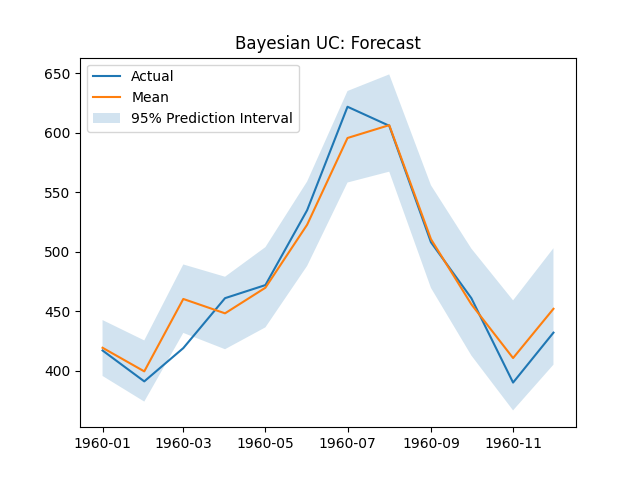
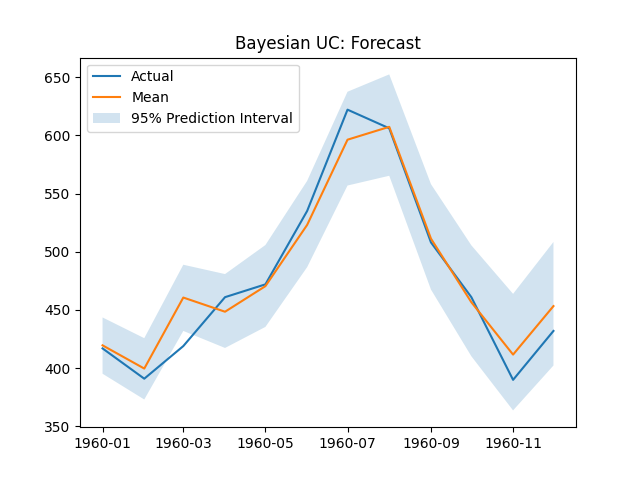
Update to method for drawing the observation equation's posterior variance - When a regression component is specified, the posterior regression coefficients are conditioned on the posterior variance of the observation equation's error term. This was incorrectly applied. The regression coefficients a

diff --git a/pybuc/buc.py b/pybuc/buc.py
@@ -3031,6 +3031,7 @@ class BayesianUnobservedComponents:
             reg_coeff_mean_prior = model.reg_coeff_mean_prior
             reg_coeff_prec_prior = model.reg_coeff_prec_prior
             reg_ninvg_coeff_cov_post = model.reg_ninvg_coeff_cov_post
+            reg_ninvg_coeff_prec_post = model.reg_ninvg_coeff_prec_post
             gibbs_iter0_reg_coeff = model.gibbs_iter0_reg_coeff
 
             if gibbs_iter0_reg_coeff is None:
@@ -3166,20 +3167,13 @@ class BayesianUnobservedComponents:
             if self.response_has_nan:
                 y = self.response_replace_nan + self.response_nan_indicator * _smoothed_prediction
 
-            # Get new draw for observation variance
-            smooth_one_step_ahead_prediction_resid = _smoothed_errors[:, 0]
-            response_var_scale_post = (response_var_scale_prior
-                                       + 0.5 * dot(smooth_one_step_ahead_prediction_resid.T,
-                                                   smooth_one_step_ahead_prediction_resid))
-            _response_error_variance = dist.vec_ig(response_var_shape_post, response_var_scale_post)
-
             if q > 0:
                 state_resid = _smoothed_errors[:, 1:, 0]
                 state_sse = dot(state_resid.T ** 2, n_ones)
                 state_var_scale_post = state_var_scale_prior + 0.5 * dot(H, state_sse)
                 state_err_var_post = dist.vec_ig(state_var_shape_post, state_var_scale_post)
 
-                if np.all(np.concatenate((_response_error_variance, state_err_var_post)) < upper_var_limit):
+                if np.all(state_err_var_post < upper_var_limit):
                     filtered_state[s] = _filtered_state
                     state_covariance[s] = _state_covariance
                     filtered_prediction[s] = _filtered_prediction
@@ -3187,7 +3181,6 @@ class BayesianUnobservedComponents:
                     smoothed_errors[s] = _smoothed_errors
                     smoothed_state[s] = _smoothed_state
                     smoothed_prediction[s] = _smoothed_prediction
-                    response_error_variance[s] = _response_error_variance
                     state_error_covariance[s] = q_eye * dot(H.T, state_err_var_post)
 
                     # Get new draw for the level's AR(1) coefficient, if applicable
@@ -3228,37 +3221,85 @@ class BayesianUnobservedComponents:
                         smooth_time_prediction = smoothed_prediction[s] - Z[:, :, -1]
                         y_tilde = y - smooth_time_prediction  # y with smooth time prediction subtracted out
                         reg_coeff_mean_post = reg_ninvg_coeff_cov_post @ (X.T @ y_tilde + c)
+                        response_var_scale_post = (
+                            response_var_scale_prior
+                            + 0.5 * (
+                            y_tilde.T @ y_tilde
+                            + reg_coeff_mean_prior.T @ reg_coeff_prec_prior @ reg_coeff_mean_prior
+                            - reg_coeff_mean_post.T @ reg_ninvg_coeff_prec_post @ reg_coeff_mean_post
+                            )
+                        )
+                        response_error_variance[s] = dist.vec_ig(
+                            response_var_shape_post,
+                            response_var_scale_post
+                        )
                         cov_post = response_error_variance[s][0, 0] * W
                         regression_coefficients[s] = (
                                 Vt.T @ np.random
                                 .multivariate_normal(mean=(Vt @ reg_coeff_mean_post).flatten(),
                                                      cov=cov_post).reshape(-1, 1)
+                        )
+                    else:
+                        # Get new draw for observation variance
+                        smooth_one_step_ahead_prediction_resid = _smoothed_errors[:, 0]
+                        response_var_scale_post = (
+                                response_var_scale_prior
+                                + 0.5 * dot(
+                            smooth_one_step_ahead_prediction_resid.T,
+                            smooth_one_step_ahead_prediction_resid)
+                        )
+                        response_error_variance[s] = dist.vec_ig(
+                            response_var_shape_post,
+                            response_var_scale_post
                         )
 
                     s += 1
             else:
-                if np.all(_response_error_variance < upper_var_limit):
-                    filtered_state[s] = _filtered_state
-                    state_covariance[s] = _state_covariance
-                    filtered_prediction[s] = _filtered_prediction
-                    response_variance[s] = _response_variance
-                    smoothed_errors[s] = _smoothed_errors
-                    smoothed_state[s] = _smoothed_state
-                    smoothed_prediction[s] = _smoothed_prediction
-                    response_error_variance[s] = _response_error_variance
+                filtered_state[s] = _filtered_state
+                state_covariance[s] = _state_covariance
+                filtered_prediction[s] = _filtered_prediction
+                response_variance[s] = _response_variance
+                smoothed_errors[s] = _smoothed_errors
+                smoothed_state[s] = _smoothed_state
+                smoothed_prediction[s] = _smoothed_prediction
 
-                    if self.has_predictors:
-                        smooth_time_prediction = smoothed_prediction[s] - Z[:, :, -1]
-                        y_tilde = y - smooth_time_prediction  # y with smooth time prediction subtracted out
-                        reg_coeff_mean_post = reg_ninvg_coeff_cov_post @ (X.T @ y_tilde + c)
-                        cov_post = response_error_variance[s][0, 0] * W
-                        regression_coefficients[s] = (
-                                Vt.T @ np.random
-                                .multivariate_normal(mean=(Vt @ reg_coeff_mean_post).flatten(),
-                                                     cov=cov_post).reshape(-1, 1)
-                        )
+                if self.has_predictors:
+                    smooth_time_prediction = smoothed_prediction[s] - Z[:, :, -1]
+                    y_tilde = y - smooth_time_prediction  # y with smooth time prediction subtracted out
+                    reg_coeff_mean_post = reg_ninvg_coeff_cov_post @ (X.T @ y_tilde + c)
+                    response_var_scale_post = (
+                            response_var_scale_prior
+                            + 0.5 * (
+                            y_tilde.T @ y_tilde
+                            + reg_coeff_mean_prior.T @ reg_coeff_prec_prior @ reg_coeff_mean_prior
+                            - reg_coeff_mean_post.T @ reg_ninvg_coeff_prec_post @ reg_coeff_mean_post
+                            )
+                    )
+                    response_error_variance[s] = dist.vec_ig(
+                        response_var_shape_post,
+                        response_var_scale_post
+                    )
+                    cov_post = response_error_variance[s][0, 0] * W
+                    regression_coefficients[s] = (
+                            Vt.T @ np.random
+                            .multivariate_normal(mean=(Vt @ reg_coeff_mean_post).flatten(),
+                                                 cov=cov_post).reshape(-1, 1)
+                    )
+                else:
+                    # Get new draw for observation variance
+                    smooth_one_step_ahead_prediction_resid = _smoothed_errors[:, 0]
+                    response_var_scale_post = (
+                            response_var_scale_prior
+                            + 0.5 * dot(
+                        smooth_one_step_ahead_prediction_resid.T,
+                        smooth_one_step_ahead_prediction_resid)
+                    )
+                    response_error_variance[s] = dist.vec_ig(
+                        response_var_shape_post,
+                        response_var_scale_post
+                    )
 
-                    s += 1
+                s += 1
 
             num_iter += 1
             if num_iter > max_samp_iter:

diff --git a/examples/airline.py b/examples/airline.py
@@ -107,7 +107,7 @@ if __name__ == '__main__':
         stochastic_trig_seasonal=(True,),
         seed=123
     )
-    post = bayes_uc.sample(5000)
+    post = bayes_uc.sample(10000)
     burn = 1000
 
     # Print summary of estimated parameters
@@ -120,7 +120,7 @@ if __name__ == '__main__':
     plt.show()
 
     # Plot time series components
-    bayes_uc.plot_components(burn=burn, smoothed=True)
+    bayes_uc.plot_components(burn=burn, smoothed=False)
     plt.show()
 
     # Plot trace of posterior

diff --git a/README.md b/README.md
@@ -244,7 +244,7 @@ bayes_uc = BayesianUnobservedComponents(
     stochastic_trig_seasonal=(True,),
     seed=123
 )
-post = bayes_uc.sample(5000)
+post = bayes_uc.sample(10000)
 burn = 1000
 
 # Print summary of estimated parameters
@@ -285,7 +285,7 @@ print(f"BAYES-UC RMSE: {rmse(y_test.to_numpy(), forecast_mean)}")
 ```
 
 ```
-BAYES-UC RMSE: 17.444303307096366
+BAYES-UC RMSE: 17.659108108915923
 ```
 
 The Bayesian Unobserved Components forecast plot, components plot, and RMSE are shown below.
